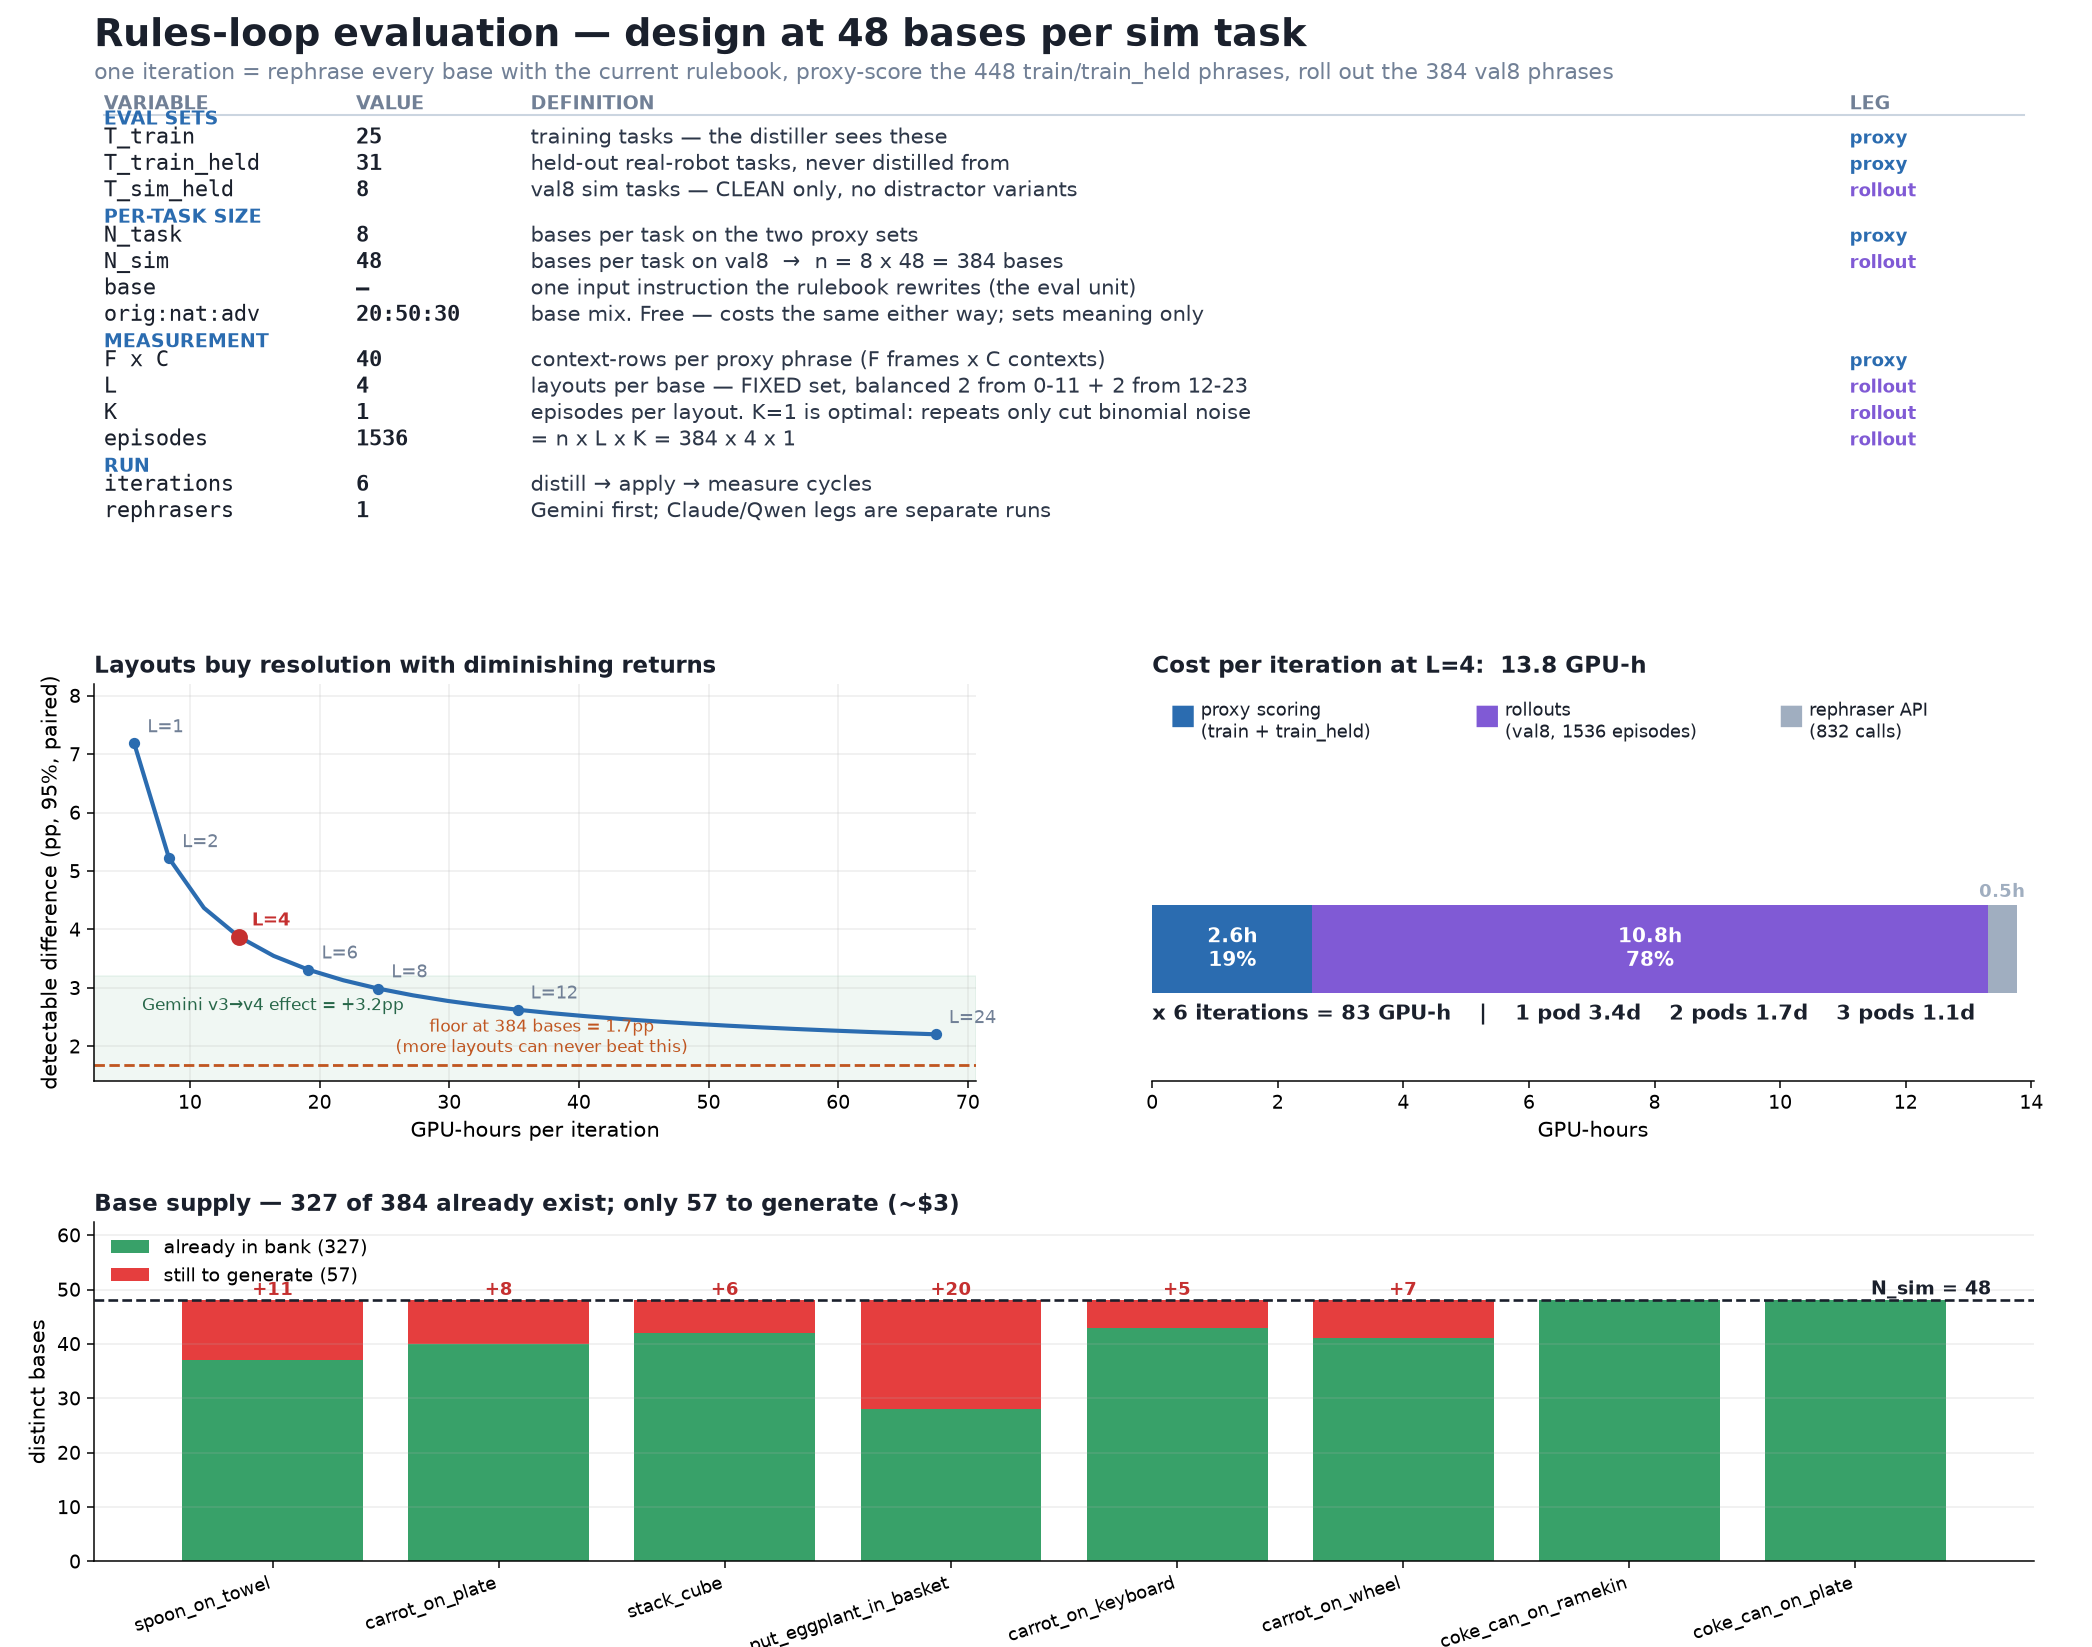
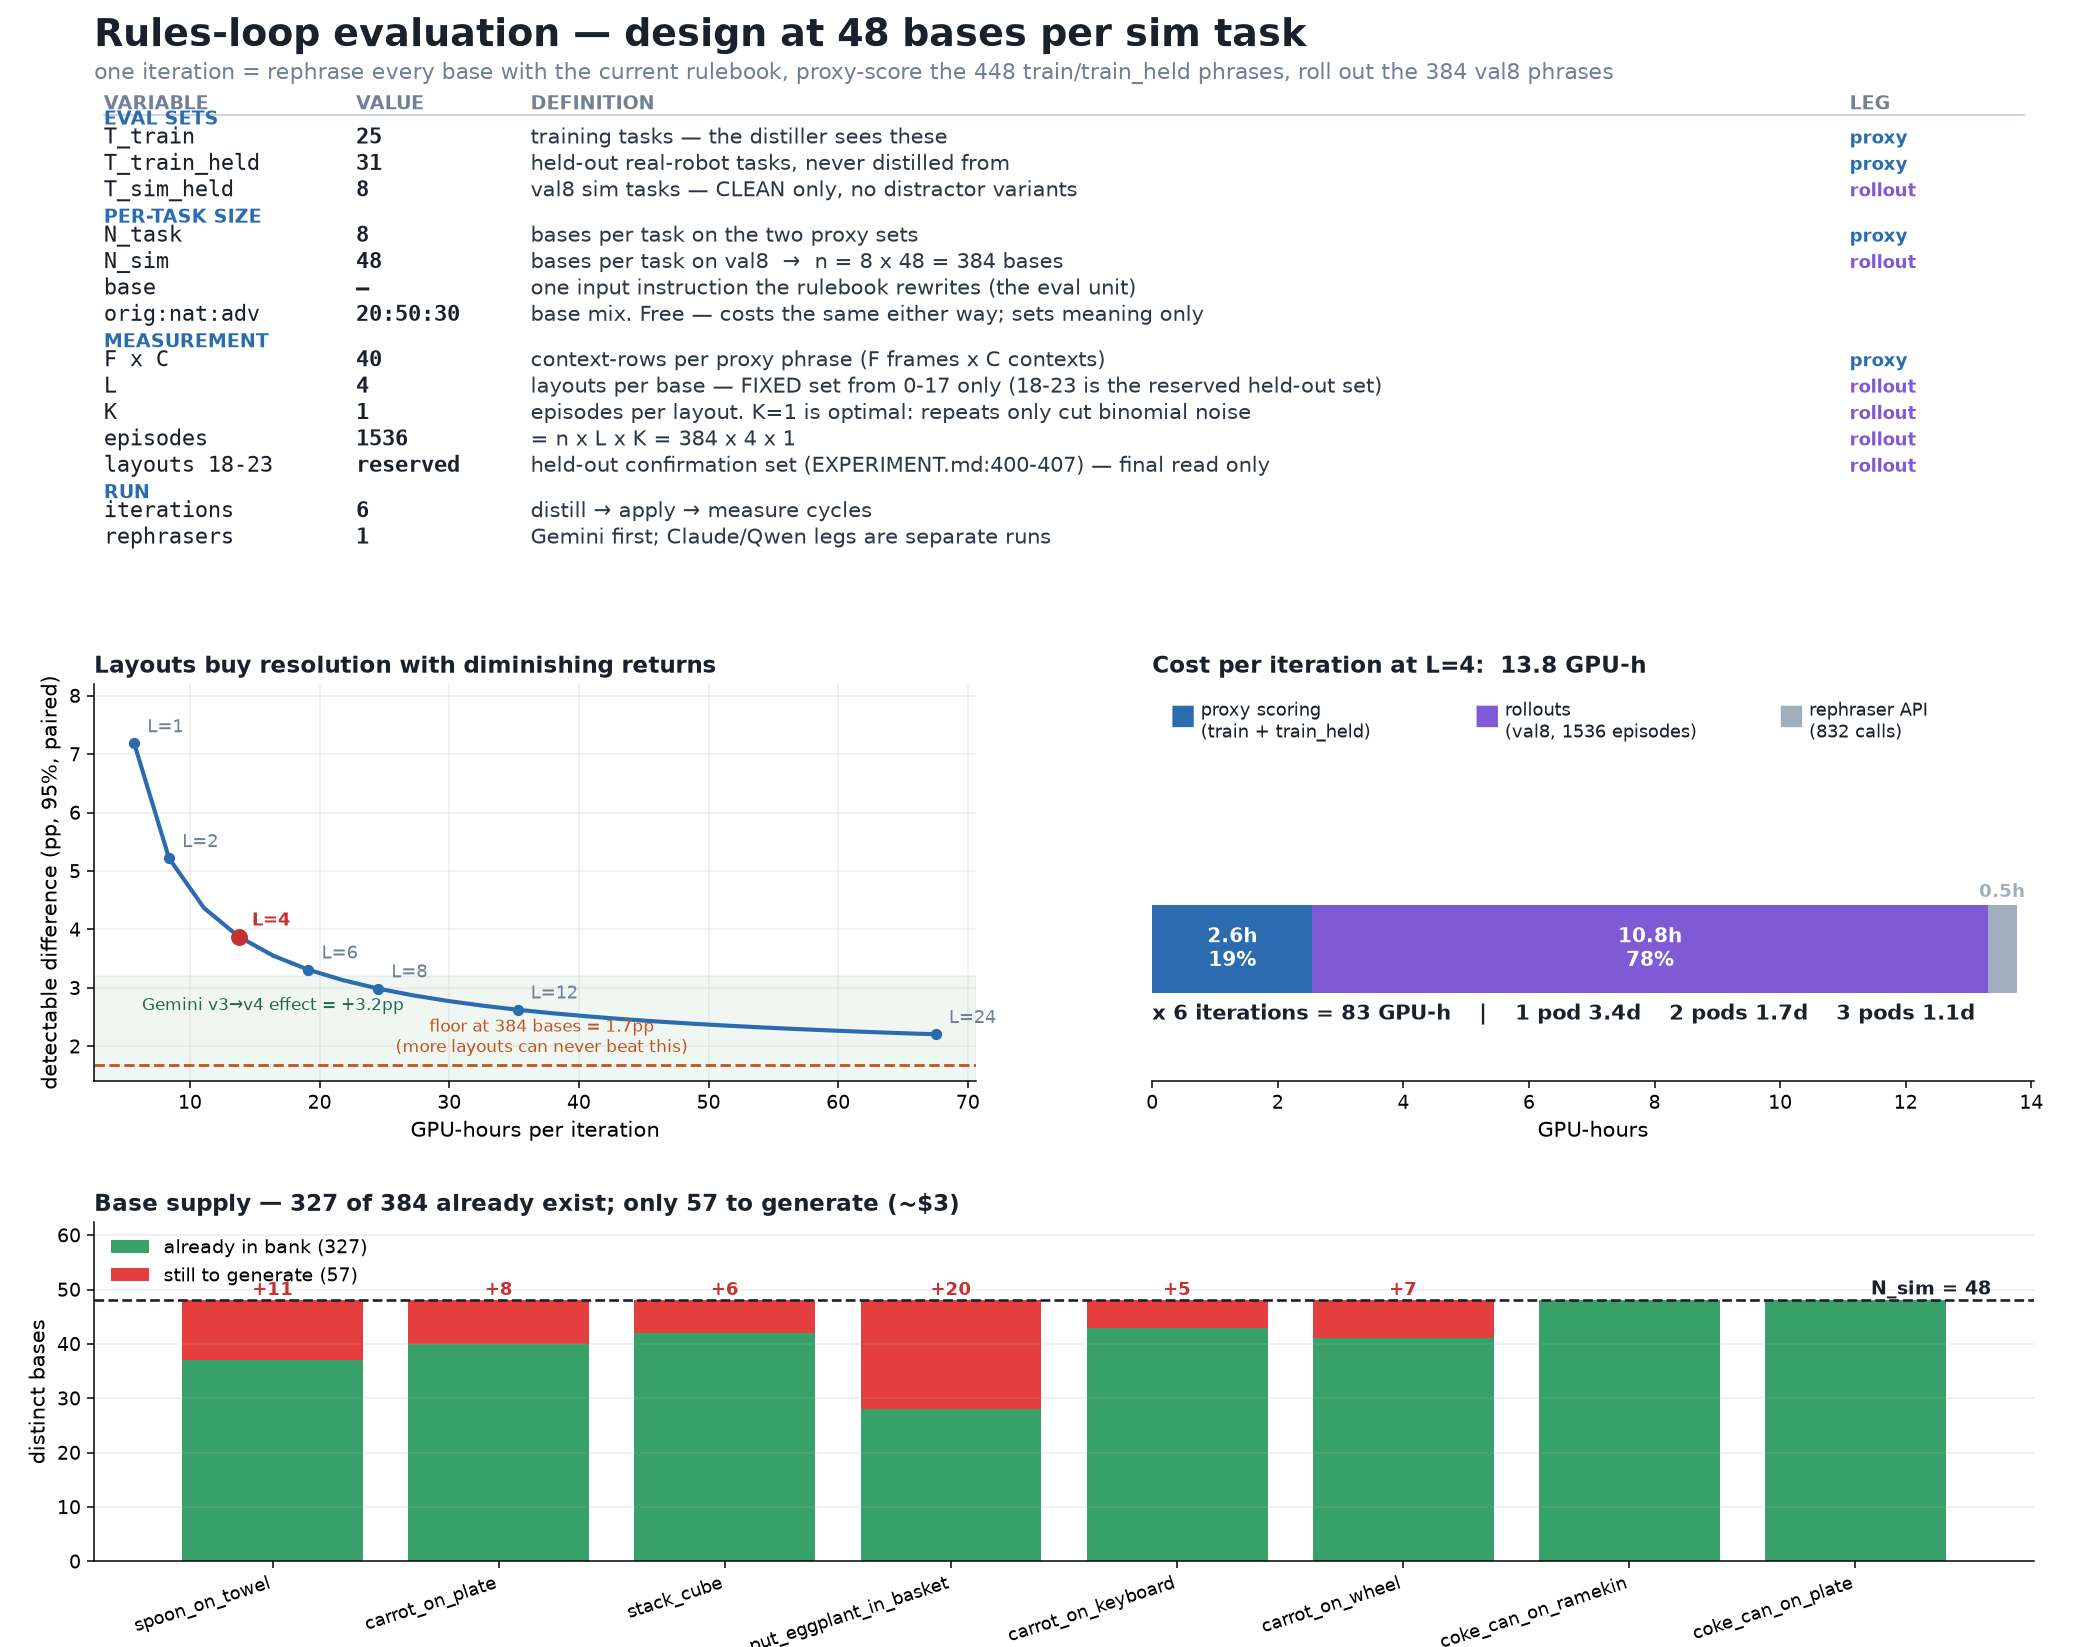
chart: L must be drawn from layouts 0-17 -- 18-23 is the repo's reserved held-out confirmation set (EXPERIMENT.md:400-407), not free eval budget

diff --git a/scripts/chart_rules_eval_spec.py b/scripts/chart_rules_eval_spec.py
@@ -69,9 +69,10 @@ ROWS = [
  ("orig:nat:adv",  "20:50:30", "base mix. Free — costs the same either way; sets meaning only", ""),
  ("MEASUREMENT",   "", "", ""),
  ("F x C",         f"{FXC}",   "context-rows per proxy phrase (F frames x C contexts)", "proxy"),
- ("L",             f"{L_REC}", "layouts per base — FIXED set, balanced 2 from 0-11 + 2 from 12-23", "rollout"),
+ ("L",             f"{L_REC}", "layouts per base — FIXED set from 0-17 only (18-23 is the reserved held-out set)", "rollout"),
  ("K",             "1",        "episodes per layout. K=1 is optimal: repeats only cut binomial noise", "rollout"),
  ("episodes",      f"{n_sim*L_REC}", "= n x L x K = 384 x 4 x 1", "rollout"),
+ ("layouts 18-23", "reserved", "held-out confirmation set (EXPERIMENT.md:400-407) — final read only", "rollout"),
  ("RUN",           "", "", ""),
  ("iterations",    f"{ITERS}", "distill → apply → measure cycles", ""),
  ("rephrasers",    "1",        "Gemini first; Claude/Qwen legs are separate runs", ""),
